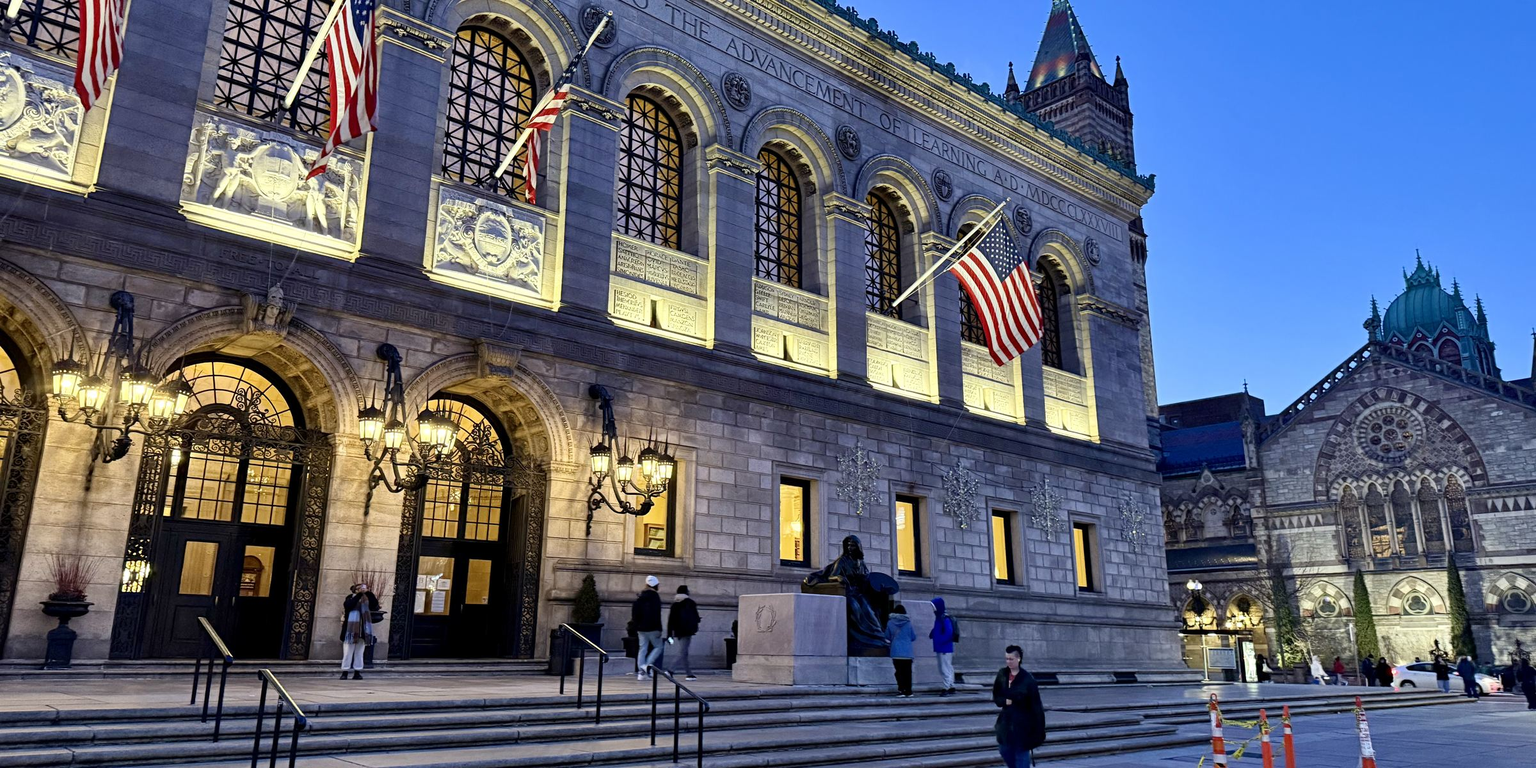
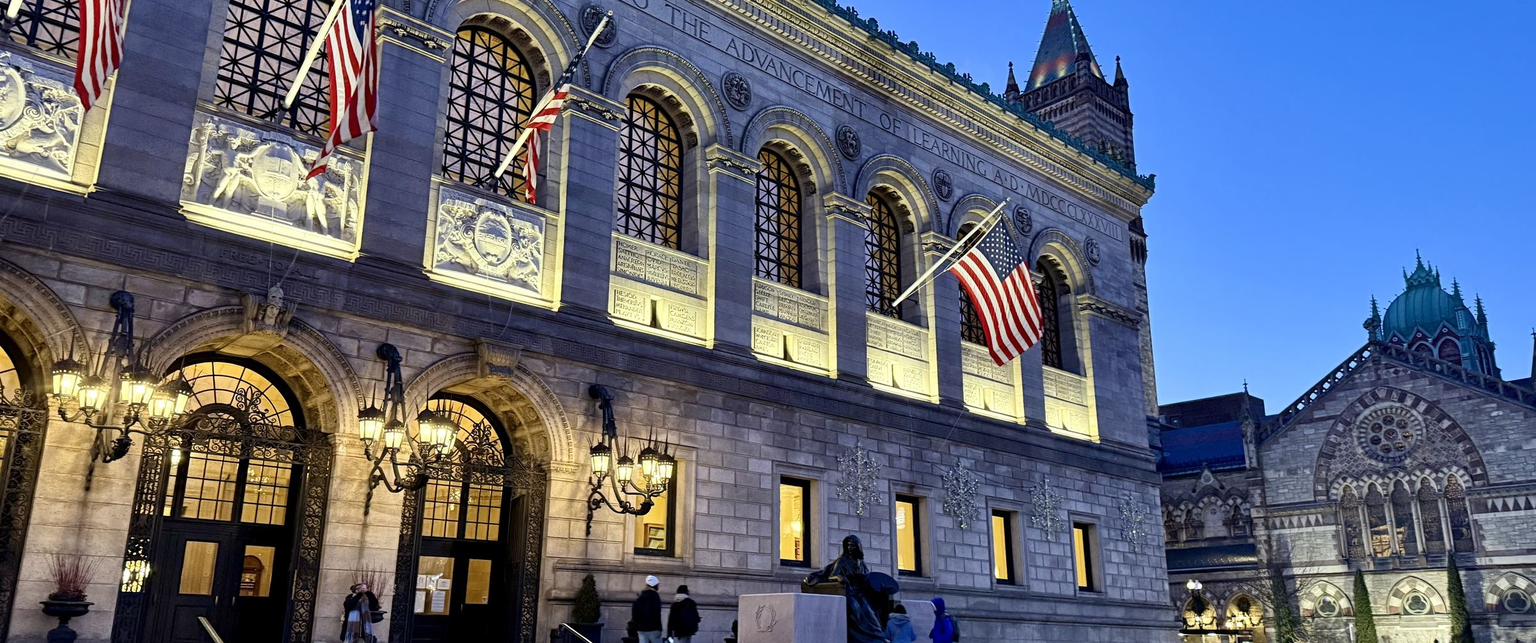
Update next meetup copy, add Aug 19 and library photos

diff --git a/index.html b/index.html
@@ -53,9 +53,9 @@
     }
 
     .nav-row {
-      display: grid;
-      grid-template-columns: 1fr auto 1fr;
+      display: flex;
       align-items: center;
+      gap: 2rem;
       height: 72px;
     }
 
@@ -65,7 +65,7 @@
       gap: 12px;
       text-decoration: none;
       cursor: pointer;
-      justify-self: start;
+      margin-right: auto;
     }
 
     .logo-text {
@@ -77,10 +77,9 @@
       white-space: nowrap;
     }
 
-    .nav-right { justify-self: end; display: flex; align-items: center; gap: 1.75rem; }
+    .nav-right { display: flex; align-items: center; gap: 1.75rem; }
 
     .nav-links {
-      justify-self: center;
       list-style: none;
       display: flex;
       align-items: center;
@@ -165,9 +164,9 @@
       main { min-height: calc(100vh - 56px); }
     }
 
-    #next, #meetups, #about, #contact { scroll-margin-top: 72px; }
+    #meetups, #about, #contact, #next-meetup { scroll-margin-top: 72px; }
     @media (max-width: 640px) {
-      #next, #meetups, #about, #contact { scroll-margin-top: 56px; }
+      #meetups, #about, #contact, #next-meetup { scroll-margin-top: 56px; }
     }
 
     /* ── HOME ── */
@@ -261,7 +260,6 @@
       font-size: 14px;
       color: var(--text-mid);
     }
-    .photo-band-caption .dot { width: 8px; height: 8px; border-radius: 50%; background: var(--blue); flex-shrink: 0; }
     .photo-band-caption strong { color: var(--text); font-weight: 600; }
 
     @media (max-width: 640px) {
@@ -454,12 +452,20 @@
 
     .events-section-label {
       font-family: var(--serif);
-      font-size: 1.25rem;
+      font-size: 1.75rem;
       font-weight: 500;
       color: var(--text-mid);
       margin: 2.5rem 0 1rem;
       padding-top: 2rem;
       border-top: 1px solid var(--border);
+    }
+
+    .next-meetup-copy { padding-bottom: 2rem; }
+
+    .page-body > .events-section-label:first-child {
+      margin-top: 0;
+      padding-top: 0;
+      border-top: none;
     }
 
     .meetup-cards {
@@ -519,6 +525,8 @@
     }
 
     .meetup-card-body p { font-size: 13px; color: var(--text-mid); line-height: 1.65; }
+    .meetup-card-body p a { color: var(--blue); text-decoration: underline; }
+    .meetup-card-body p a:hover { color: var(--blue-lt); }
 
     @media (max-width: 900px) {
       .meetup-cards { grid-template-columns: 1fr 1fr; }
@@ -650,11 +658,16 @@
     }
 
     .organizer-card {
+      display: block;
       border: 1px solid var(--border);
       border-radius: 16px;
       padding: 1.75rem 1.5rem;
       background: var(--sky-pale);
+      text-decoration: none;
+      transition: border-color 0.15s;
     }
+
+    .organizer-card:hover { border-color: var(--blue); }
 
     .organizer-card .avatar { width: 64px; height: 64px; margin-bottom: 1rem; }
     .organizer-card h4 { font-family: var(--serif); font-size: 1.25rem; font-weight: 500; color: var(--text); margin-bottom: 4px; }
@@ -886,7 +899,7 @@
   </ul>
 
   <div class="nav-right">
-    <a class="nav-cta" href="#next">RSVP</a>
+    <!-- RSVP hidden until next meetup is planned: <a class="nav-cta" href="#next-meetup">RSVP</a> -->
     <button class="nav-toggle" onclick="toggleNav()" aria-label="Toggle menu" aria-expanded="false">
       <svg width="22" height="22" viewBox="0 0 22 22" fill="none" xmlns="http://www.w3.org/2000/svg">
         <rect class="ham-top" x="2" y="5"  width="18" height="2" rx="1" fill="white"/>
@@ -907,7 +920,7 @@
     <p class="hero-sub">Monthly meetups for content designers, UX writers, content strategists, or any content-adjacent UX professional</p>
 
     <div class="hero-cta">
-      <a class="btn-primary" href="#next">See the next meetup</a>
+      <a class="btn-primary" href="#next-meetup">See the next meetup</a>
       <a class="btn-ghost" href="https://join.slack.com/t/bostonuxcontent/shared_invite/zt-3yydsgped-nefE6WnZR3MtWLZqKL7OAg" target="_blank" rel="noopener noreferrer">Join our Slack</a>
     </div>
     </div>
@@ -916,57 +929,40 @@
   <!-- Real photo of our venue -->
   <section class="photo-band">
     <div class="photo-band-media">
-      <img src="bpl-library.jpg" alt="The Boston Public Library at dusk, Copley Square" />
+      <img src="bpl-library.jpg?v=2" alt="The Boston Public Library at dusk, Copley Square" />
     </div>
     <div class="wrap photo-band-caption">
-      <span class="dot"></span>
       <p>Most of our meetups happen at the <strong>Boston Public Library</strong> in Copley Square.</p>
     </div>
   </section>
 
-  <!-- Keep in sync with the first Upcoming meetup below -->
-  <section class="feature" id="next">
-    <div class="wrap feature-grid">
-        <div>
-          <div class="feature-placeholder">Photo coming soon</div>
-        </div>
-        <div class="next-card">
-          <div>
-            <div class="next-eyebrow">Next meetup</div>
-            <div class="next-title">Details coming soon</div>
-            <div class="next-meta">
-              <span>Date</span>
-              <span>Place</span>
-            </div>
-          </div>
-        </div>
-      </div>
-    </section>
-
   <!-- MEETUPS -->
   <section id="meetups">
     <div class="wrap page-header">
-      <h2>Past meetups</h2>
-      <p>A running record of what we've talked about, made, and celebrated together.</p>
+      <h2>Meetups</h2>
     </div>
 
     <div class="wrap page-body">
+      <h3 class="events-section-label" id="next-meetup">Next meetup</h3>
+      <p class="next-meetup-copy">The next meetup will be in late Oct or mid Nov. Check back soon.</p>
+
+      <h3 class="events-section-label">Past meetups</h3>
       <div class="meetup-cards">
         <div class="meetup-card">
-          <div class="meetup-card-image meetup-card-placeholder">Photo coming soon</div>
+          <img src="meetup-sep-17-2026.jpeg" alt="Photo from the September 17, 2026 meetup" class="meetup-card-image">
           <div class="meetup-card-body">
-            <div class="meetup-card-date">Sep 2026</div>
-            <h3>Details coming soon</h3>
-            <p>Details coming soon.</p>
+            <div class="meetup-card-date">Sep 17, 2026</div>
+            <h3>Content-First Design with Sarah Johnson</h3>
+            <p>We're deeply grateful to <a href="https://contentfirstdesign.com/" target="_blank" rel="noopener noreferrer">Sarah Johnson</a>, who gave a riveting talk called <strong>Stop message misfires with the Content-first Framework</strong> that clarified the importance of a content-first approach to digital product design and development. As one attendee put it, "that's the most invigorating and substantive content design conversation I've had in ages. A rare pleasure!"</p>
           </div>
         </div>
 
         <div class="meetup-card">
-          <div class="meetup-card-image meetup-card-placeholder">Photo coming soon</div>
+          <img src="library-room.jpeg" alt="Photo from the August 19, 2026 meetup" class="meetup-card-image">
           <div class="meetup-card-body">
-            <div class="meetup-card-date">Aug 2026</div>
-            <h3>Details coming soon</h3>
-            <p>Details coming soon.</p>
+            <div class="meetup-card-date">Aug 19, 2026</div>
+            <h3>Career support, part 3: Admin night</h3>
+            <p>This was a laid back, working session where we chatted about formatting resumes for ATS scanners, preparing for interviews with AI bots, and how to not lose your mind tailoring resumes, cover letters, portfolios, and case studies for each and every job application.</p>
           </div>
         </div>
 
@@ -980,7 +976,7 @@
         </div>
 
         <div class="meetup-card">
-          <img src="meetup-jun-11-2026.jpg" alt="Photo from the June 11, 2026 meetup" class="meetup-card-image">
+          <img src="meetup-jun-11-2026.jpg?v=2" alt="Photo from the June 11, 2026 meetup" class="meetup-card-image">
           <div class="meetup-card-body">
             <div class="meetup-card-date">Jun 11, 2026</div>
             <h3>Career support, part 2: Connecting the dots between your job hunting artifacts</h3>
@@ -1026,19 +1022,19 @@
     </div>
 
     <div class="wrap organizer-grid">
-      <div class="organizer-card">
+      <a class="organizer-card" href="https://www.linkedin.com/in/laurawixted/" target="_blank" rel="noopener noreferrer">
         <div class="avatar"><img src="laura-wixted-linkedin.jpg" alt="Laura Wixted" onerror="this.remove(); this.parentElement.textContent='LW';" /></div>
         <h4>Laura Wixted</h4>
         <div class="organizer-role">Lead organizer</div>
         <p>15+ years of content design and technical writing experience across ed tech, cybersecurity, and civic tech.</p>
-      </div>
+      </a>
 
-      <div class="organizer-card">
+      <a class="organizer-card" href="https://www.linkedin.com/in/alison-burke-a4825915/" target="_blank" rel="noopener noreferrer">
         <div class="avatar"><img src="ali-burke-linkedin.jpg" alt="Ali Burke" onerror="this.remove(); this.parentElement.textContent='AB';" /></div>
         <h4>Alison (Ali) Burke</h4>
         <div class="organizer-role">Co-organizer</div>
         <p>10+ years of startup and agency experience building brand voices and content strategies across industries.</p>
-      </div>
+      </a>
     </div>
 
   </section>
